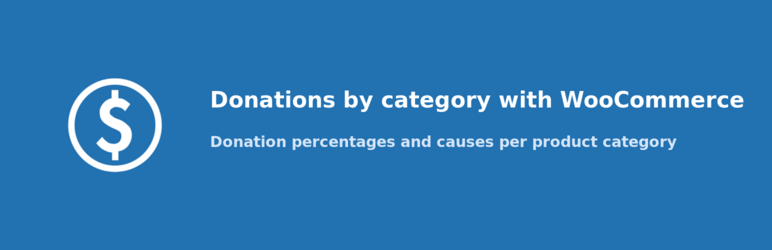
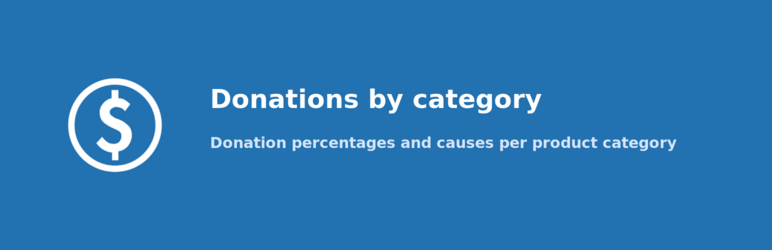
chore: rename to "Donations by category" (drop woocommerce term)
WordPress.org no longer allows the woocommerce term in plugin names or
permalinks. Rename the display name to "Donations by category"
(submission slug: donations-by-category) across the header, readme,
admin menu/About, notice text, catalogs and banners; the code,
textdomain and folder slug stay wc-category-donations.

Changed region(s): [[0.2798, 0.336, 0.9637, 0.476], [0.2798, 0.532, 0.8705, 0.616]]

diff --git a/includes/class-wc-category-donations-admin.php b/includes/class-wc-category-donations-admin.php
@@ -40,8 +40,8 @@ class Admin {
 	 */
 	public function register_menu(): void {
 		add_menu_page(
-			__( 'Donations by category with WooCommerce', 'wc-category-donations' ),
-			__( 'Donations by category with WooCommerce', 'wc-category-donations' ),
+			__( 'Donations by category', 'wc-category-donations' ),
+			__( 'Donations by category', 'wc-category-donations' ),
 			'manage_options',
 			self::PAGE,
 			array( $this, 'render_page' ),
@@ -359,7 +359,7 @@ class Admin {
 		);
 		?>
 		<div class="wrap">
-			<h1><?php esc_html_e( 'Donations by category with WooCommerce', 'wc-category-donations' ); ?></h1>
+			<h1><?php esc_html_e( 'Donations by category', 'wc-category-donations' ); ?></h1>
 			<nav class="nav-tab-wrapper">
 				<?php foreach ( $tabs as $key => $label ) : ?>
 					<a
@@ -446,7 +446,7 @@ class Admin {
 		?>
 		<h2><?php esc_html_e( 'About', 'wc-category-donations' ); ?></h2>
 		<p>
-			<?php esc_html_e( 'Donations by category with WooCommerce adds a donation percentage and a cause to each product category. The donation amount is calculated on the product price before taxes, recorded with the order, and adjusted automatically when orders are refunded or cancelled.', 'wc-category-donations' ); ?>
+			<?php esc_html_e( 'Donations by category adds a donation percentage and a cause to each product category. The donation amount is calculated on the product price before taxes, recorded with the order, and adjusted automatically when orders are refunded or cancelled.', 'wc-category-donations' ); ?>
 		</p>
 		<p>
 			<?php esc_html_e( 'The Donations tab shows the recorded totals (per category, per year and overall), the list of cancelled donations, and lets you download an annual CSV report. The customer donations summary appears on the user edit screen, and the Settings tab controls the default percentage and the donation message.', 'wc-category-donations' ); ?>

diff --git a/wc-category-donations.php b/wc-category-donations.php
@@ -1,6 +1,6 @@
 <?php
 /**
- * Plugin Name: Donations by category with WooCommerce
+ * Plugin Name: Donations by category
  * Plugin URI:  https://github.com/softfactorIA/wc-category-donations
  * Description: WooCommerce companion plugin with per-category donation settings and shortcodes.
  * Version:     1.2.0
@@ -56,7 +56,7 @@ function wccd_missing_woocommerce_notice() {
 
 	printf(
 		'<div class="notice notice-error"><p>%s</p></div>',
-		esc_html__( 'Donations by category with WooCommerce requires WooCommerce to be installed and active. The plugin is not running.', 'wc-category-donations' )
+		esc_html__( 'Donations by category requires WooCommerce to be installed and active. The plugin is not running.', 'wc-category-donations' )
 	);
 }
 

diff --git a/includes/class-wc-category-donations-shortcodes.php b/includes/class-wc-category-donations-shortcodes.php
@@ -243,7 +243,7 @@ final class Shortcodes {
 	 * @param mixed $format_value Shortcode format attribute.
 	 */
 	private function render_category_error( $format_value ): string {
-		$message = __( 'Donations by category with WooCommerce: no category found. Add a category attribute or use this shortcode on a product category or product page.', 'wc-category-donations' );
+		$message = __( 'Donations by category: no category found. Add a category attribute or use this shortcode on a product category or product page.', 'wc-category-donations' );
 
 		if ( ! $this->is_formatted( $format_value ) ) {
 			return $message;

diff --git a/includes/class-wc-category-donations-core.php b/includes/class-wc-category-donations-core.php
@@ -1,6 +1,6 @@
 <?php
 /**
- * Core bootstrap and shared API for the Donations by category with WooCommerce
+ * Core bootstrap and shared API for the Donations by category
  * plugin.
  *
  * @package WcCategoryDonations

diff --git a/CHANGELOG.md b/CHANGELOG.md
@@ -9,11 +9,11 @@ and this project adheres to [Semantic Versioning](https://semver.org/).
 
 ### Changed
 
-- Display name renamed to **Donations by category with WooCommerce**
-  (required by the WordPress.org trademark rules: the name must include
-  "with woocommerce"). Code, textdomain and folder slug stay
-  `wc-category-donations`; the wp.org slug at submission is
-  `donations-by-category-with-woocommerce`.
+- Display name renamed to **Donations by category** (WordPress.org no
+  longer allows the "woocommerce" term in plugin names or permalinks, so
+  the earlier "Donations by category with WooCommerce" choice was
+  dropped; the wp.org submission slug is `donations-by-category`). Code,
+  textdomain and folder slug stay `wc-category-donations`.
 
 ## [1.2.0] - 2026-09-28
 
